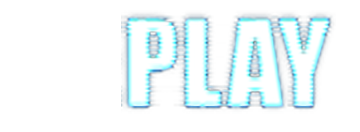
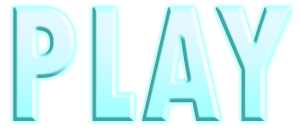
Fondo y botones modificados.

diff --git a/SuperKoalioPt1Start/SuperKoalio/GameLevelScene.m b/SuperKoalioPt1Start/SuperKoalio/GameLevelScene.m
@@ -356,16 +356,17 @@
       self.gameText = @"Game Over";
     }
   }
-  
+  //Añadimos un nodo que pintara en la pantalla el string almacenado en gameText, y se le asigna un tipo de fuente, un tamaño y su posición.
   self.endGameLabel = [SKLabelNode labelNodeWithFontNamed:@"Marker Felt"];
   endGameLabel.text = self.gameText;
   endGameLabel.fontSize = 40;
   endGameLabel.position = CGPointMake(self.size.width / 2.0, self.size.height / 1.7);
   [self addChild:endGameLabel];
   
+  //Añadimos un boton, le asignamos la posicion y la imagen,y un controlador de touch que cuando se pulsa llama a la funcion replay.
   UIButton *replay = [UIButton buttonWithType:UIButtonTypeCustom];
   replay.tag = 321;
-  UIImage *replayImage = [UIImage imageNamed:@"replay"];
+  UIImage *replayImage = [UIImage imageNamed:@"repl.png"];
   [replay setImage:replayImage forState:UIControlStateNormal];
   [replay addTarget:self action:@selector(replay:) forControlEvents:UIControlEventTouchUpInside];
   replay.frame = CGRectMake(self.size.width / 2.0 - replayImage.size.width / 2.0, self.size.height / 2.0 - replayImage.size.height / 2.0, replayImage.size.width, replayImage.size.height);

diff --git a/SuperKoalioPt1Start/SuperKoalio/PlayScene.m b/SuperKoalioPt1Start/SuperKoalio/PlayScene.m
@@ -16,7 +16,14 @@
 -(id)initWithSize:(CGSize)size {
     if (self = [super initWithSize:size]) {        
         // Color de fondo
-        self.backgroundColor = [SKColor colorWithRed:.4 green:.4 blue:.95 alpha:1.0];
+        //self.backgroundColor = [SKColor colorWithRed:.4 green:.4 blue:.95 alpha:1.0];
+        
+        //Añadimos el fondo con la imagen, lo posiciona en la escena
+        //y luego lo asigna dentro del mapa como hijo.
+        self.fondo = [SKSpriteNode spriteNodeWithImageNamed:@"fondo.png"];
+        self.fondo.position = CGPointMake(self.size.width *0.58,self.size.height*0.58);
+        [self addChild:self.fondo];
+        
         // Asigna el boton play con la imagen, lo posiciona en la escena
         // y luego lo asigna dentro del mapa como hijo.
         self.play = [SKSpriteNode spriteNodeWithImageNamed:@"play.png"];
@@ -27,8 +34,6 @@
         
         
     }
-    //Añade el sonido
-    [[SKTAudio sharedInstance] playBackgroundMusic:@"level1.mp3"];
     self.userInteractionEnabled = YES;
     return self;
 }

diff --git a/SuperKoalioPt1Start/SuperKoalio/PlayScene.h b/SuperKoalioPt1Start/SuperKoalio/PlayScene.h
@@ -11,4 +11,6 @@
 @interface PlayScene : SKScene
 //Nodo del boton play
 @property(nonatomic,strong) SKSpriteNode *play;
+//Nodo para el fondo
+@property(nonatomic,strong) SKSpriteNode *fondo;
 @end
